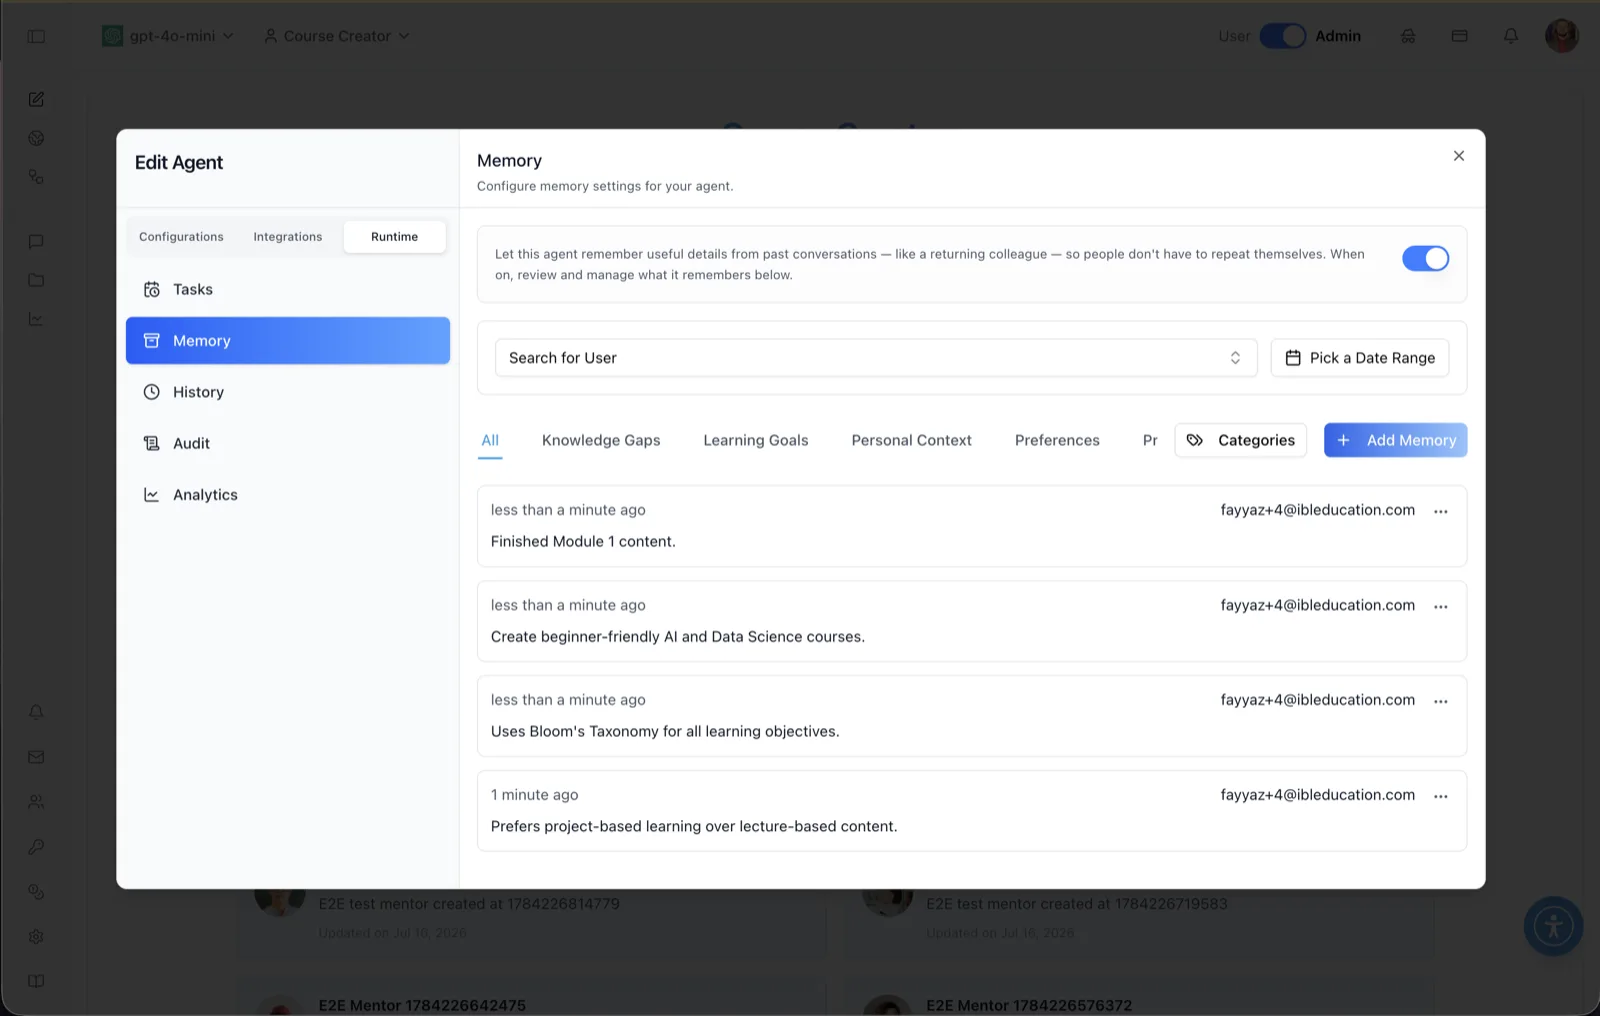
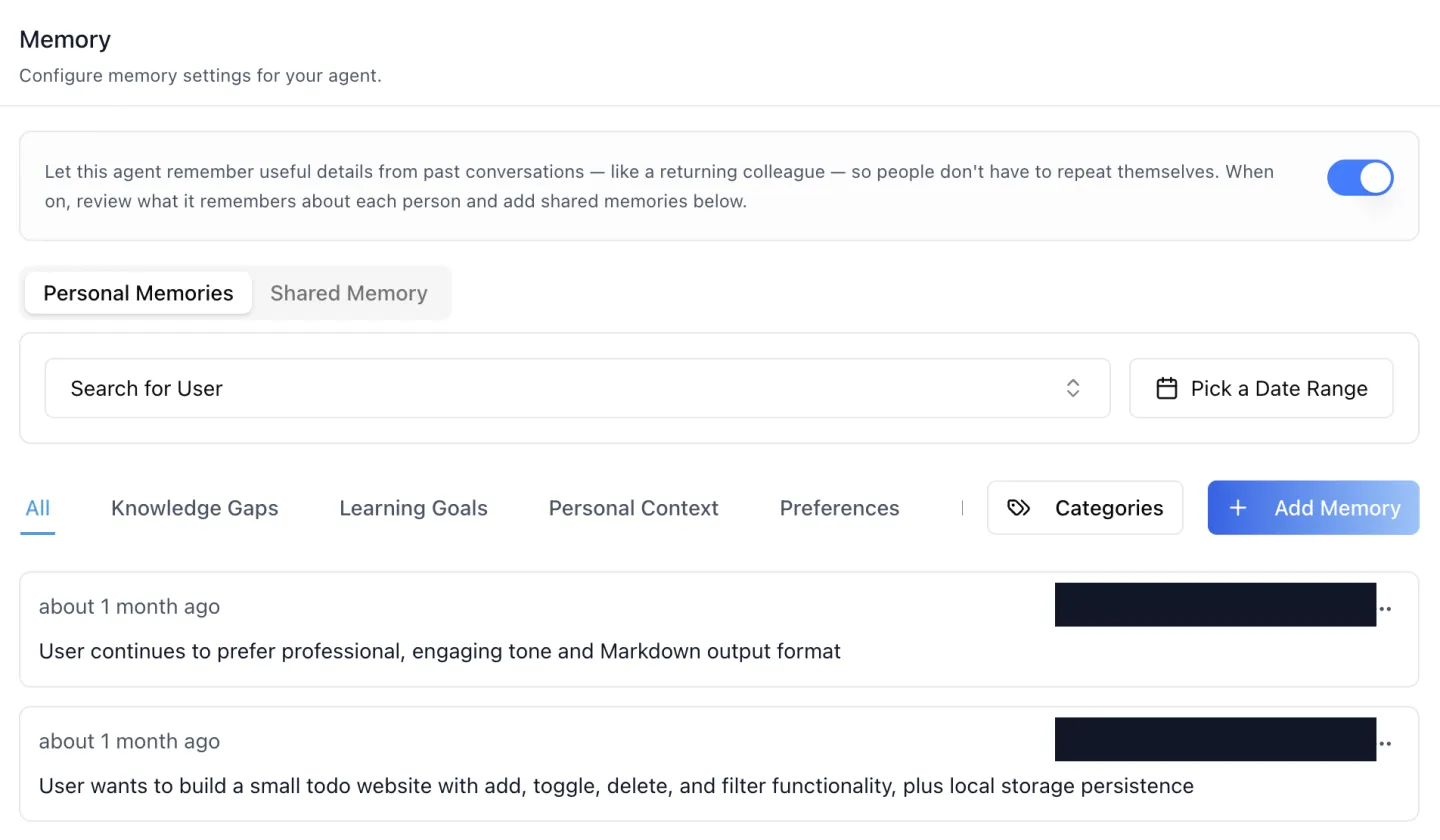
docs: Agent Settings: Memory and the Memory System document the Shared Memory / agent-knowledge scope (#22)
* docs(os): Agent Settings: Memory now documents the Personal Memories / Shared Memory split

The agent Memory panel shipped a Long-term Memory switch with two
sub-tabs (Agentic Vibe v2.15.0, 2026-10-20). The page still described
the pre-sub-tab single list, never mentioned Shared Memory, and
documented a Delete All action the new panel does not have.

- Document the Long-term Memory switch and both sub-tabs.
- Shared Memory: the list ("Added by {name} · {time ago}", 20 per page),
  the Add Shared Memory dialog (10-character minimum, duplicate
  rejection), Edit and Delete with its confirmation wording, who may
  write it under RBAC, and that it is never captured automatically.
- The three memory gates (organization, agent, person) as a table.
- Personal Memories: the five self-seeding categories, Categories
  manager, Add Memory, card actions. Delete All removed.
- Four screenshots from the shipped tab (all under 50 KB WebP); the
  hero now shows the sub-tabs. User emails in the Personal Memories
  frame are redacted.
- "private mode" -> "Incognito mode" on this page (iblai-home #1212).

Sources: skills/agents/iblai-vibe-agent-memory/SKILL.md and
skills/iblai-vibe-memory-guide in iblai/vibe @ c8e56ac, and
https://ibl.ai/updates/agent-shared-memory.

* docs(developer): Memory System documents agent knowledge (Shared Memory) as the third scope, with its real endpoints

Supersedes iblai/docs#16, which proposed the same third scope while the
[…]

diff --git a/os/agent-settings/memory.md b/os/agent-settings/memory.md
@@ -1,12 +1,15 @@
 # Agent Settings: Memory
 
-![Memory panel with an enable toggle, user and date filters, category tabs such as Knowledge Gaps and Preferences, an Add Memory button, and saved memory cards with timestamps and user emails](../images/agent-settings/agent_settings_memory.webp)
+![Memory panel with the Long-term Memory switch on, two sub-tabs reading Personal Memories and Shared Memory, a Search for User field, a Pick a Date Range control, category tabs reading All, Knowledge Gaps, Learning Goals, Personal Context and Preferences, and two memory cards with their owning user's email redacted](../images/agent-settings/agent_settings_memory.webp)
 
 ## Overview
 
-The Memory panel reviews and manages what an agent remembers about individual users across conversations. The panel header reads: "Configure memory settings for your agent," and the helper text explains: "Let this agent remember useful details from past conversations — like a returning colleague — so people don't have to repeat themselves. When on, review and manage what it remembers below," with a master toggle to turn memory on or off for the agent.
+The Memory panel manages what an agent remembers. Its header reads "Configure memory settings for your agent," and the helper text explains the **Long-term Memory** switch: "Let this agent remember useful details from past conversations — like a returning colleague — so people don't have to repeat themselves."
 
-Each saved memory is a card showing when it was captured (for example, "less than a minute ago"), which user it belongs to (their email), and the remembered fact (for example, "Prefers project-based learning over lecture-based content."). Memories are organized into categories and can be filtered, added, edited, and deleted by administrators.
+While the switch is on, the panel shows two sub-tabs that hold two different kinds of memory:
+
+- **Personal Memories** — what the agent has learned about each individual person, filed by category. These are captured automatically from conversations (or added by hand) and belong to one user at a time.
+- **Shared Memory** — "Facts, rules, and background this agent should always keep in mind. Every person who chats with this agent gets these memories." These are written only by hand and have no user attached: everyone who talks to the agent receives them.
 
 To reach this screen, open the **Edit Agent** modal, switch to the **Runtime** tab group (its sidebar lists Tasks, Memory, History, Audit, and Analytics), and select **Memory**.
 
@@ -16,26 +19,41 @@ To reach this screen, open the **Edit Agent** modal, switch to the **Runtime** t
 
 ## Panel Reference
 
-#### Memory toggle
-The switch in the helper banner enables or disables memory for this agent. When on, the agent stores and references useful details from conversations; when off, it does not remember users between sessions. (Conversations in private mode never store memory regardless of this setting.)
+#### Long-term Memory switch
+The switch in the helper banner enables or disables memory for this agent. When on, the agent stores and references useful details from conversations and injects its Shared Memory into every chat; when off, both sub-tabs stay visible but nothing from either store reaches a conversation. This is the agent-level gate — see [Which switches control memory](#which-switches-control-memory) below for the other two. Conversations in Incognito mode never store memory regardless of this setting.
 
-#### Search for User
+#### Personal Memories / Shared Memory sub-tabs
+Two tabs directly under the switch. **Personal Memories** is the per-person store described in the next five entries; **Shared Memory** is the agent-wide store described after it.
+
+#### Search for User (Personal Memories)
 A searchable dropdown listing the users who have saved memories (by email), plus an **All Users** option. Selecting a user filters the memory list to just that person.
 
-#### Pick a Date Range
+#### Pick a Date Range (Personal Memories)
 Filters the memory list to entries captured within a chosen date range.
 
-#### Category tabs
-Filter tabs across the top of the list: **All** plus the organization's memory categories — the screenshot shows **Knowledge Gaps**, **Learning Goals**, **Personal Context**, and **Preferences**. Up to six categories are shown inline; additional ones collapse into a **More** menu. Categories are admin-defined, so your set may differ.
+#### Category tabs (Personal Memories)
+Filter tabs across the top of the list: **All** plus the agent's memory categories. Five categories seed themselves the first time the agent extracts a memory — Knowledge Gaps, Learning Goals, Preferences, Progress Milestones, and Personal Context — which is why a brand-new agent can show an empty category list, and why the screenshot shows only the four this agent has used so far. Up to six categories are shown inline; additional ones collapse into a **More** menu.
 
-#### Categories
-Opens the **Manage Categories** dialog, where you can add a new category by name, rename existing ones, and delete them (with confirmation). Categories structure how memories are classified and filtered.
+#### Categories (Personal Memories)
+Opens the **Manage Categories** dialog, where you can add a new category by name (each with its own extraction prompt), rename existing ones, and delete them with confirmation. Categories structure how personal memories are classified and filtered.
 
-#### Add Memory
-Opens the **Add Memory** dialog: pick a **Category**, type the **Memory** content (10-character minimum), and click **Save**. This lets an administrator seed or correct what the agent knows about users without waiting for it to be learned in conversation.
+#### Add Memory and memory cards (Personal Memories)
+**Add Memory** opens a dialog: pick a **Category**, type the **Memory** content (10-character minimum), and click **Save**. Each saved memory is a card showing its relative timestamp, the owning user's email, and the memory text; the "..." actions menu on a card offers **Edit** (change the content or category) and **Delete** (with confirmation).
 
-#### Memory cards
-Each card shows the memory's relative timestamp, the owning user's email, and the memory text. The "..." actions menu on a card offers **Edit** (change the content or category) and **Delete** (with confirmation). A **Delete All** action is available to bulk-delete the memories in the current category filter.
+#### Shared Memory list
+![Shared Memory sub-tab showing the Long-term Memory switch, the two sub-tabs, an Add Shared Memory button, and a note that shared memories reach chats only while memory is on for both the agent and the person chatting](../images/agent-settings/agent_settings_memory_shared.webp)
+
+One card per entry, twenty to a page, each showing the text and **"Added by {name} · {time ago}"**, so a reviewer can see who curated a line and when. The note under the heading states the rule that governs the whole sub-tab: "Shared memories reach chats only while Long-term Memory is on for this agent and the person chatting has memory turned on."
+
+#### Add Shared Memory
+![Add Shared Memory dialog with a Memory textarea, the placeholder Write what this agent should always keep in mind, a 0/10 characters minimum counter, and Cancel and Save buttons with Save disabled](../images/agent-settings/agent_settings_memory_shared_add.webp)
+
+Opens a single-field dialog — "Write what this agent should always keep in mind..." — with a counter that reads **0/10 characters minimum** until ten characters are typed. **Save** stays disabled below that floor. Entries deduplicate on content: saving a line that already exists is rejected and the field shows "This shared memory already exists." Good entries are short standing facts, such as "Our refund window is 30 days" or "Always cite the policy handbook."
+
+#### Edit and Delete (Shared Memory)
+![Delete Shared Memory confirmation dialog warning that everyone who chats with this agent will stop seeing the memory and that the action cannot be undone](../images/agent-settings/agent_settings_memory_shared_delete.webp)
+
+Every shared-memory card carries a "..." menu with **Edit**, which reopens the same dialog with the text loaded, and **Delete**, which asks first: "Everyone who chats with this agent will stop seeing it. This action cannot be undone."
 
 ## How to Use
 
@@ -43,13 +61,31 @@ Each card shows the memory's relative timestamp, the owning user's email, and th
 Open the **Edit Agent** modal, click the **Runtime** tab group, then select **Memory**.
 
 #### Step 2: Turn memory on
-Enable the toggle in the banner so the agent remembers useful details from past conversations. Pair this with the **Remember past conversations** capability so memory is active in chat.
+Enable the **Long-term Memory** switch so the agent remembers useful details from past conversations and injects its Shared Memory. Pair this with the **Remember past conversations** capability so memory is active in chat.
 
-#### Step 3: Review what the agent remembers
-Filter by user with **Search for User**, narrow by date with **Pick a Date Range**, and switch category tabs (Knowledge Gaps, Learning Goals, Personal Context, Preferences, and so on) to audit stored memories.
+#### Step 3: Review what the agent remembers about people
+On **Personal Memories**, filter by user with **Search for User**, narrow by date with **Pick a Date Range**, and switch category tabs to audit stored memories. Use **Add Memory** to insert a fact about one person, the card's **Edit** action to fix an inaccurate one, and **Delete** to remove anything that should not be retained.
 
-#### Step 4: Curate memories
-Use **Add Memory** to insert facts the agent should know, the card's **Edit** action to fix inaccurate ones, and **Delete** (or **Delete All**) to remove anything that should not be retained.
+#### Step 4: Write what the agent should always know
+Switch to **Shared Memory** and click **Add Shared Memory** for each standing fact, rule, or piece of background every conversation should start with. Edit an entry when the fact changes; delete it when it no longer applies.
 
 #### Step 5: Maintain categories
-Click **Categories** to add, rename, or remove memory categories as your classification needs evolve.
+Back on **Personal Memories**, click **Categories** to add, rename, or remove memory categories as your classification needs evolve.
+
+## Which switches control memory
+
+Three switches decide whether anything on this panel reaches a conversation, and they cascade top-down: a level that is off stops everything beneath it, whatever the lower levels say.
+
+| Level | Where it is set | What off means |
+|---|---|---|
+| **Organization** | Memory search in the organization's settings | No memory for anyone, however many agents are configured |
+| **Agent** | The **Long-term Memory** switch on this panel | No memory for this agent — neither store is injected |
+| **Person** | The two toggles on the user's own [Profile: Memory](/docs/os/profile/memory) tab | The individual has opted out of capture, of personalization, or of both, even while the organization and the agent are on |
+
+## Behavior Notes
+
+- **Shared Memory is never captured automatically.** Personal memories are extracted from conversations by a background job; shared memories exist only because a person typed them and clicked **Save**. Nothing an individual says in a chat can end up in the store that every other person receives.
+- **Never put something about one person into Shared Memory.** Everyone who talks to the agent will read it. A fact about an individual belongs in Personal Memories, where it is scoped to its owner and can be corrected or deleted on their request.
+- **What the model sees.** On each new message the platform retrieves the most relevant personal memories and prepends them to the system prompt together with the agent's Shared Memory, which arrives as an `## Agent Knowledge` block. Memory is retrieved by relevance, not pasted in wholesale.
+- **Who may change Shared Memory.** There is no separate shared-memory permission; the agent's own edit permission applies. With role-based access control on, a Limited Editor can add and edit shared memories and a Limited Viewer cannot. If the server refuses a write, the **Add Shared Memory** button and the per-entry menus disappear for the rest of the session rather than offering an action that will fail.
+- **The same personal memories have three doors.** What you see on Personal Memories is also reachable, for every agent at once, from the organization's [Memory settings](/docs/os/organization-settings/memory), and each user sees their own cross-agent memories on their Profile. Shared Memory is managed only here, on the agent's own panel.

diff --git a/developer/platform/agents/memory.md b/developer/platform/agents/memory.md
@@ -1,17 +1,20 @@
 # Memory System
 
-The Memory System enables AI agents to remember information about users across conversations. It stores user preferences, learning progress, knowledge gaps, and personal context, making interactions more personalized and contextual.
+The Memory System lets AI agents carry knowledge across conversations — both what they learn about an individual user, and what an administrator wants the agent itself to know for everyone who uses it. It stores user preferences, learning progress, knowledge gaps, personal context, and hand-curated agent knowledge, making interactions more personalized, more consistent, and less repetitive.
 
 ---
 
 ## Overview
 
-The memory system supports two scopes of memory:
+The memory system supports three scopes of memory. The first two are **about a user**; the third is **about the agent**.
 
-| Memory Type | Scope | Description |
-|-------------|-------|-------------|
-| **Global User Memories** | All agents | Facts about the user that apply everywhere (name, profession, preferences) |
-| **Agent-Specific Memories** | Single agent | Context specific to interactions with a particular agent |
+| Memory Type | Scope | Subject | Written by | Description |
+|-------------|-------|---------|------------|-------------|
+| **Global User Memories** | All agents | The user | Auto-extracted from chat, or by hand | Facts about the user that apply everywhere (name, profession, preferences) |
+| **Agent-Specific Memories** | Single agent | The user | Auto-extracted per category, or by hand | Context specific to *this user's* interactions with a particular agent, filed by category |
+| **Agent Knowledge** (Shared Memory) | Single agent | The agent | **By hand only** | Facts, rules and background every person who chats with the agent receives, injected as an `## Agent Knowledge` block |
+
+The distinction that matters: **Agent-Specific Memories** are still keyed to a person — they are what the agent remembers *about you*. **Agent Knowledge** belongs to the agent itself, has no user and no category, is never extracted automatically, and is delivered to everyone it serves. In the OS it is the **Shared Memory** sub-tab of the agent's Memory panel; see [Agent Knowledge API](#agent-knowledge-api-shared-memory).
 
 **Default Memory Categories (Agent-Specific):**
 
@@ -242,6 +245,10 @@ When a user starts a new conversation, relevant memories are retrieved and injec
 The AI receives memories formatted as:
 
 ```markdown
+## Agent Knowledge
+- Our refund window is 30 days
+- Always cite the policy handbook
+
 ## User Information
 - The user is a software engineer with 5 years of experience
 - The user prefers visual explanations with diagrams
@@ -251,6 +258,8 @@ The AI receives memories formatted as:
 - [Learning Goals] The user wants to master system design patterns
 - [Preferences] The user prefers Python code examples over pseudocode
 ```
+
+`## Agent Knowledge` is the agent's shared memory and is the same for every user; the two user sections are retrieved per person by semantic search (roughly the top five global and top five agent-specific memories). Because the knowledge block reaches every user's prompt, it is written only by hand — there is no code path that extracts it from a conversation.
 
 ---
 
@@ -728,6 +737,60 @@ curl -X DELETE \
 
 ---
 
+### Agent Knowledge API (Shared Memory)
+
+**Endpoints:** `/orgs/{org}/agents/{agent}/agent-memories/`
+
+Agent knowledge is scoped to the agent, so the path has **no** `users/{user_id}` segment. Do not confuse it with the user-scoped `/orgs/{org}/users/{user_id}/agents/{agent}/agent-memories/` above, which lists one user's per-agent memories. The two share the `agent-memories` name and nothing else.
+
+#### List Agent Knowledge
+
+```bash
+curl -X GET \
+  "https://api.ibl.ai/api/ai-agent/orgs/acme/agents/python-tutor/agent-memories/?page=1&page_size=20" \
+  -H "Authorization: Token <token>"
+```
+
+Returns a paged list (`page_size` default 20, maximum 100). Optional `start_date` and `end_date` (`YYYY-MM-DD`) filter on the entry's `created_at`.
+
+#### Create Agent Knowledge
+
+```bash
+curl -X POST \
+  "https://api.ibl.ai/api/ai-agent/orgs/acme/agents/python-tutor/agent-memories/" \
+  -H "Authorization: Token <token>" \
+  -H "Content-Type: application/json" \
+  -d '{"content": "Our refund window is 30 days"}'
+```
+
+`content` is required and must be at least 10 characters. Entries deduplicate on a content hash: an identical entry returns `409` with `{"error": "Memory already exists"}` instead of a duplicate; a new entry returns `201` with the created object.
+
+#### Update Agent Knowledge
+
+```bash
+curl -X PATCH \
+  "https://api.ibl.ai/api/ai-agent/orgs/acme/agents/python-tutor/agent-memories/4/" \
+  -H "Authorization: Token <token>" \
+  -H "Content-Type: application/json" \
+  -d '{"content": "Our refund window is 45 days"}'
+```
+
+Replaces the entry's content. If the new content collides with another of the agent's entries, returns `409`.
+
+#### Delete Agent Knowledge
+
+```bash
+curl -X DELETE \
+  "https://api.ibl.ai/api/ai-agent/orgs/acme/agents/python-tutor/agent-memories/4/" \
+  -H "Authorization: Token <token>"
+```
+
+Returns `204` with no body. Everyone who chats with the agent stops receiving the entry immediately.
+
+> **Note:** An agent-knowledge object carries `content`, `created_at`, `updated_at` and the creating user, but **no `category` and no `is_auto_generated` field** — the store is shared and manually curated, so the flag that marks an extracted memory elsewhere does not exist on it. Keep personal data out of it: anything about one individual belongs in that individual's memory, where it is scoped to its owner and deletable on request. There is no separate permission for it; the agent's own edit permission governs writes.
+
+---
+
 ### API Endpoints Summary
 
 | Method | Endpoint | Description |
@@ -740,12 +803,18 @@ curl -X DELETE \
 | POST | `/orgs/{org}/users/{user_id}/agents/{agent}/agent-memories/` | Create agent memory |
 | PATCH | `/orgs/{org}/users/{user_id}/agents/{agent}/agent-memories/{id}/` | Update agent memory |
 | DELETE | `/orgs/{org}/users/{user_id}/agents/{agent}/agent-memories/{id}/` | Delete agent memory |
+| GET | `/orgs/{org}/agents/{agent}/agent-memories/` | List agent knowledge (shared memory; paged, start_date / end_date) |
+| POST | `/orgs/{org}/agents/{agent}/agent-memories/` | Create agent knowledge (`409` on duplicate content) |
+| PATCH | `/orgs/{org}/agents/{agent}/agent-memories/{id}/` | Update agent knowledge |
+| DELETE | `/orgs/{org}/agents/{agent}/agent-memories/{id}/` | Delete agent knowledge (`204`) |
 | GET | `/orgs/{org}/users/{user_id}/memsearch-settings/` | Get user settings |
 | PUT | `/orgs/{org}/users/{user_id}/memsearch-settings/` | Update user settings |
 | GET | `/orgs/{org}/agents/{agent}/memory-categories/` | List categories |
 | POST | `/orgs/{org}/agents/{agent}/memory-categories/` | Create category |
 | PATCH | `/orgs/{org}/agents/{agent}/memory-categories/{id}/` | Update category |
 | DELETE | `/orgs/{org}/agents/{agent}/memory-categories/{id}/` | Deactivate category |
+
+Note the two path shapes. Anything **about a user** is nested under `/users/{user_id}/`. Anything **belonging to the agent** — memory categories and agent knowledge — is agent-scoped under `/orgs/{org}/agents/{agent}/` and takes no `user_id`, because there is no user it is about.
 
 ---
 
